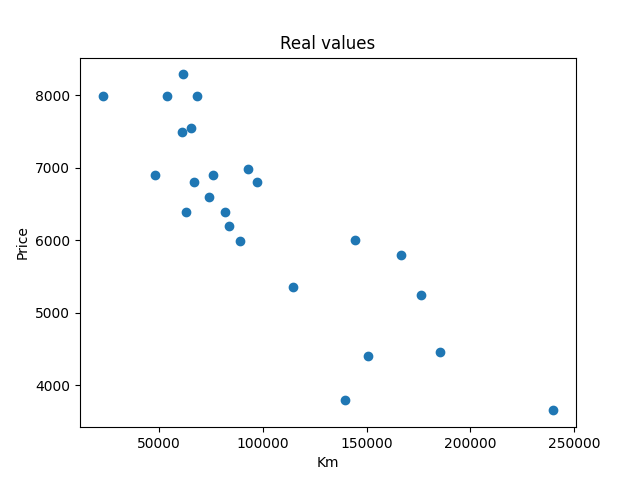
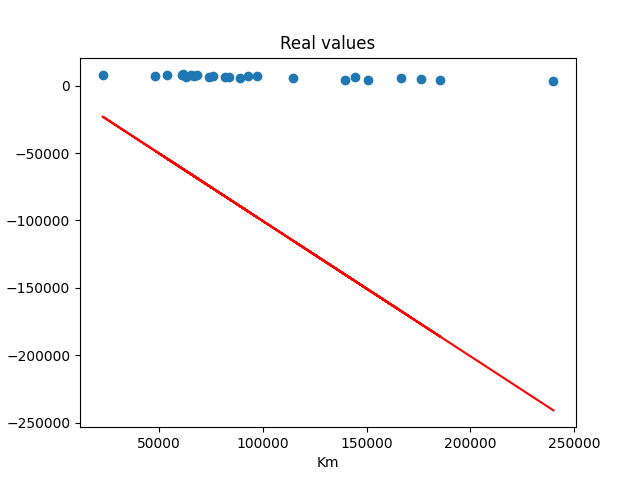
linear regression graph with normalized data works

diff --git a/utils.py b/utils.py
@@ -16,7 +16,7 @@ def calculateMean(dataset: list) -> list:
 		means[i] = sum(columnValue) / float(len(dataset))
 	return means
 
-# Printing a scatter graph of current data set in ./graph folder 
+# Printing a real value scatter graph of current data set in ./graph folder 
 def createRealValueGraph(dataSetName: str, beta0, beta1):
 	dataReal = pd.read_csv('./data/{0}'.format(dataSetName))
 	graphName = dataSetName.split('.')
@@ -26,23 +26,43 @@ def createRealValueGraph(dataSetName: str, beta0, beta1):
 	plt.title('Real values')
 	plt.xlabel('Km')
 	plt.ylabel('Price')
+	plt.plot(xReal, beta0 + beta1 * xReal, 'r')
 	plt.savefig('./graphs/{0}_real.png'.format(graphName[0]))
 	plt.clf()
 
-# Printing a scatter graph of current data set in ./graph folder 
-def createNormalizedGraph(dataSet: list, dataSetName: str, beta0, beta1):
+# Printing a normalized scatter graph of current data set in ./graph folder 
+# def createNormalizedGraph(dataSet: list, dataSetName: str, beta0, beta1):
+# 	graphName = dataSetName.split('.')
+# 	dataReal = pd.read_csv('./data/{0}'.format(dataSetName))
+# 	for i in range (len(dataSet[0])):
+# 		if i == 0:
+# 			x = [row[i] for row in dataSet]
+# 		else:
+# 			y = [row[i] for row in dataSet]
+# 	printList('x', x)
+# 	plt.title('Normalized values')
+# 	plt.xlabel('Km')
+# 	plt.ylabel('Price')
+# 	plt.scatter(x, y)
+# 	print('beta0', beta0)
+# 	print('beta1', beta1)
+# 	# plt.plot(x, beta0 + beta1 * x, 'r')
+# 	plt.savefig('./graphs/{0}_normalized.png'.format(graphName[0]))
+# 	plt.clf()
+
+def createNormalizedGraph(dataSetName: str, beta0, beta1):
+	dataReal = pd.read_csv('./data/{0}'.format(dataSetName))
 	graphName = dataSetName.split('.')
-	for i in range (len(dataSet[0])):
-		if i == 0:
-			x = [row[i] for row in dataSet]
-		else:
-			y = [row[i] for row in dataSet]
-	printList('x', x)
+	print('daraReal', dataReal)
+	xNorm = dataReal[dataReal.columns[0]]
+	yNorm = dataReal[dataReal.columns[1]]
 	plt.title('Normalized values')
 	plt.xlabel('Km')
 	plt.ylabel('Price')
-	plt.scatter(x, y)
-	# plt.plot(x, beta0 + beta1 * x, 'r')
+	plt.scatter(xNorm, yNorm)
+	print('beta0', beta0)
+	print('beta1', beta1)
+	plt.plot(xNorm, beta0 + beta1 * xNorm, 'r')
 	plt.savefig('./graphs/{0}_normalized.png'.format(graphName[0]))
 	plt.clf()
 

diff --git a/trainModel.py b/trainModel.py
@@ -103,6 +103,12 @@ def saveCoefficient(tbeta0, tbeta1, minmax, file):
 		csvWriter.writerow([tbeta0, tbeta1])
 		csvWriter.writerows(minmax)
 
+def saveNormalizedData(filtereDataSet, file):
+	with open(file, 'w') as csvFile:
+		csvWriter = writer(csvFile, delimiter=',', quotechar='"', quoting=csv.QUOTE_MINIMAL)
+		csvWriter.writerow(['km', 'price'])
+		csvWriter.writerows(filtereDataSet)
+
 def main():
 	csvFile:str
 	csvFile = getCsvFileName()
@@ -117,11 +123,13 @@ def main():
 	tbeta1 = 0.0
 	tbeta0, tbeta1 = gradientDecent(filtereDataSet, 0.01, 500)
 	fileName = './coefficients/b0b1.csv'
+	normalizedFileName = './data/normalized.csv'
 	print('tbeta0, tbeta1', tbeta0, tbeta1)
 	createRealValueGraph(csvFile, tbeta0, tbeta1)
-	createNormalizedGraph(filtereDataSet, csvFile, tbeta0, tbeta1)
+	# createNormalizedGraph(filtereDataSet, csvFile, tbeta0, tbeta1)
 	saveCoefficient(tbeta0, tbeta1, minmax, fileName)
+	saveNormalizedData(filtereDataSet, normalizedFileName)
+	createNormalizedGraph('normalized.csv', tbeta0, tbeta1)
 
 if __name__ == "__main__":
 	main()
-
